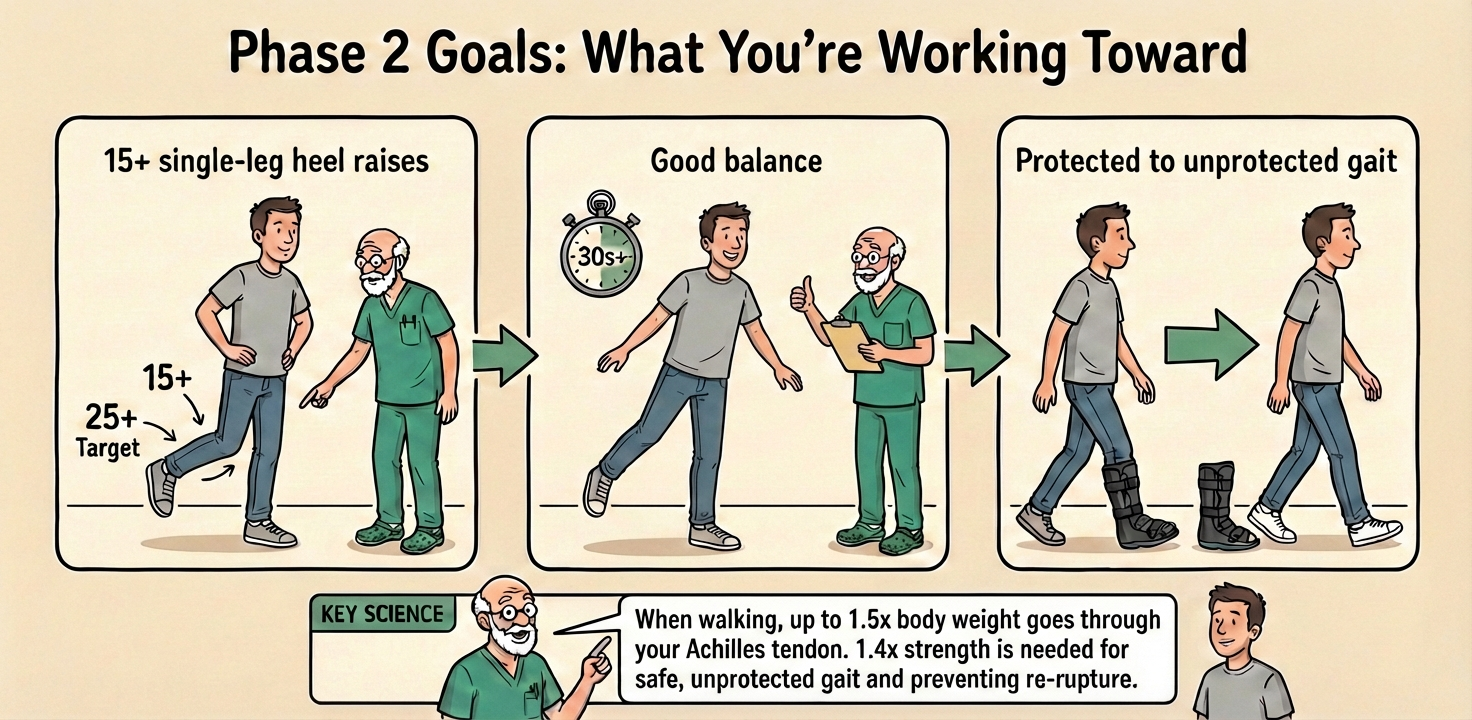
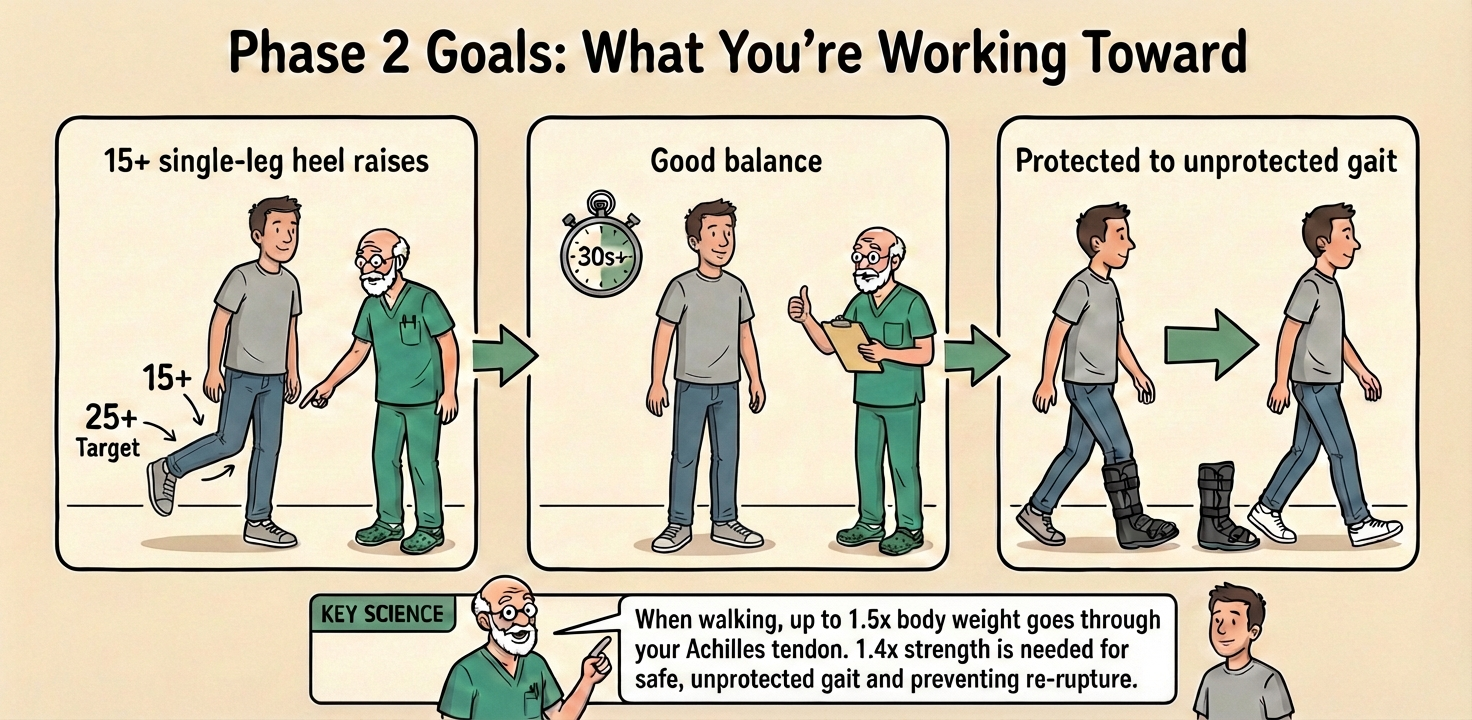
Update course content images and refine cardio section
- Replaced outdated images with updated versions for improved clarity.
- Added a new duration guideline in the building cardio section for better user guidance.
- Removed redundant duration list item to streamline content presentation.

Changed region(s): [[0.375, 0.275, 0.5938, 0.7944], [0.0938, 0.275, 0.2188, 0.7333]]

diff --git a/apps/course/src/content/course/standard/06-recovery/building-cardio.tsx b/apps/course/src/content/course/standard/06-recovery/building-cardio.tsx
@@ -336,6 +336,7 @@ export const content: SectionContent = {
                                 "**Technique:** Walk forward, backward, sideways",
                                 "**Benefits:** Water supports body weight, reduces impact",
                                 "**Progression:** Increase speed and duration gradually",
+                                "**Duration:** Start with 10-15 minutes, build to 20-30 minutes",
                             ],
                         },
                         {
@@ -345,13 +346,7 @@ export const content: SectionContent = {
                             caption:
                                 "Pool walking: the water supports your body weight, making it safe and low-impact",
                         },
-                        {
-                            type: "list",
-                            style: "bullet",
-                            items: [
-                                "**Duration:** Start with 10-15 minutes, build to 20-30 minutes",
-                            ],
-                        },
+                        
                     ],
                 },
                 {

diff --git a/apps/course/src/content/course/standard/05-physiotherapy/progressive-strengthening.tsx b/apps/course/src/content/course/standard/05-physiotherapy/progressive-strengthening.tsx
@@ -1,7 +1,7 @@
 import type { SectionContent } from "@/components/course/types";
 import IsomOvercomingSeatedCalf from "@/assets/isom-overcoming-seated-calf.png";
 import IsomYieldingStandingSeated from "@/assets/isom-yielding-standing-seated.png";
-import HeelRaiseProgression from "@/assets/heel-raise-progression.png";
+import HeelRaiseProgression from "@/assets/heel-raise-progression-fixed.png";
 
 export const metadata = {
     slug: "progressive-strengthening",

diff --git a/apps/course/src/content/course/standard/03-boot-phase/final-boot-phase.tsx b/apps/course/src/content/course/standard/03-boot-phase/final-boot-phase.tsx
@@ -1,5 +1,5 @@
 import type { SectionContent } from "@/components/course/types";
-import TendonStrengthTimeline from "@/assets/tendon-strength-timeline-v6.png";
+import TendonStrengthTimeline from "@/assets/tendon-strength-timeline-tintin-v6.png";
 
 export const metadata = {
     slug: "final-boot-phase",
